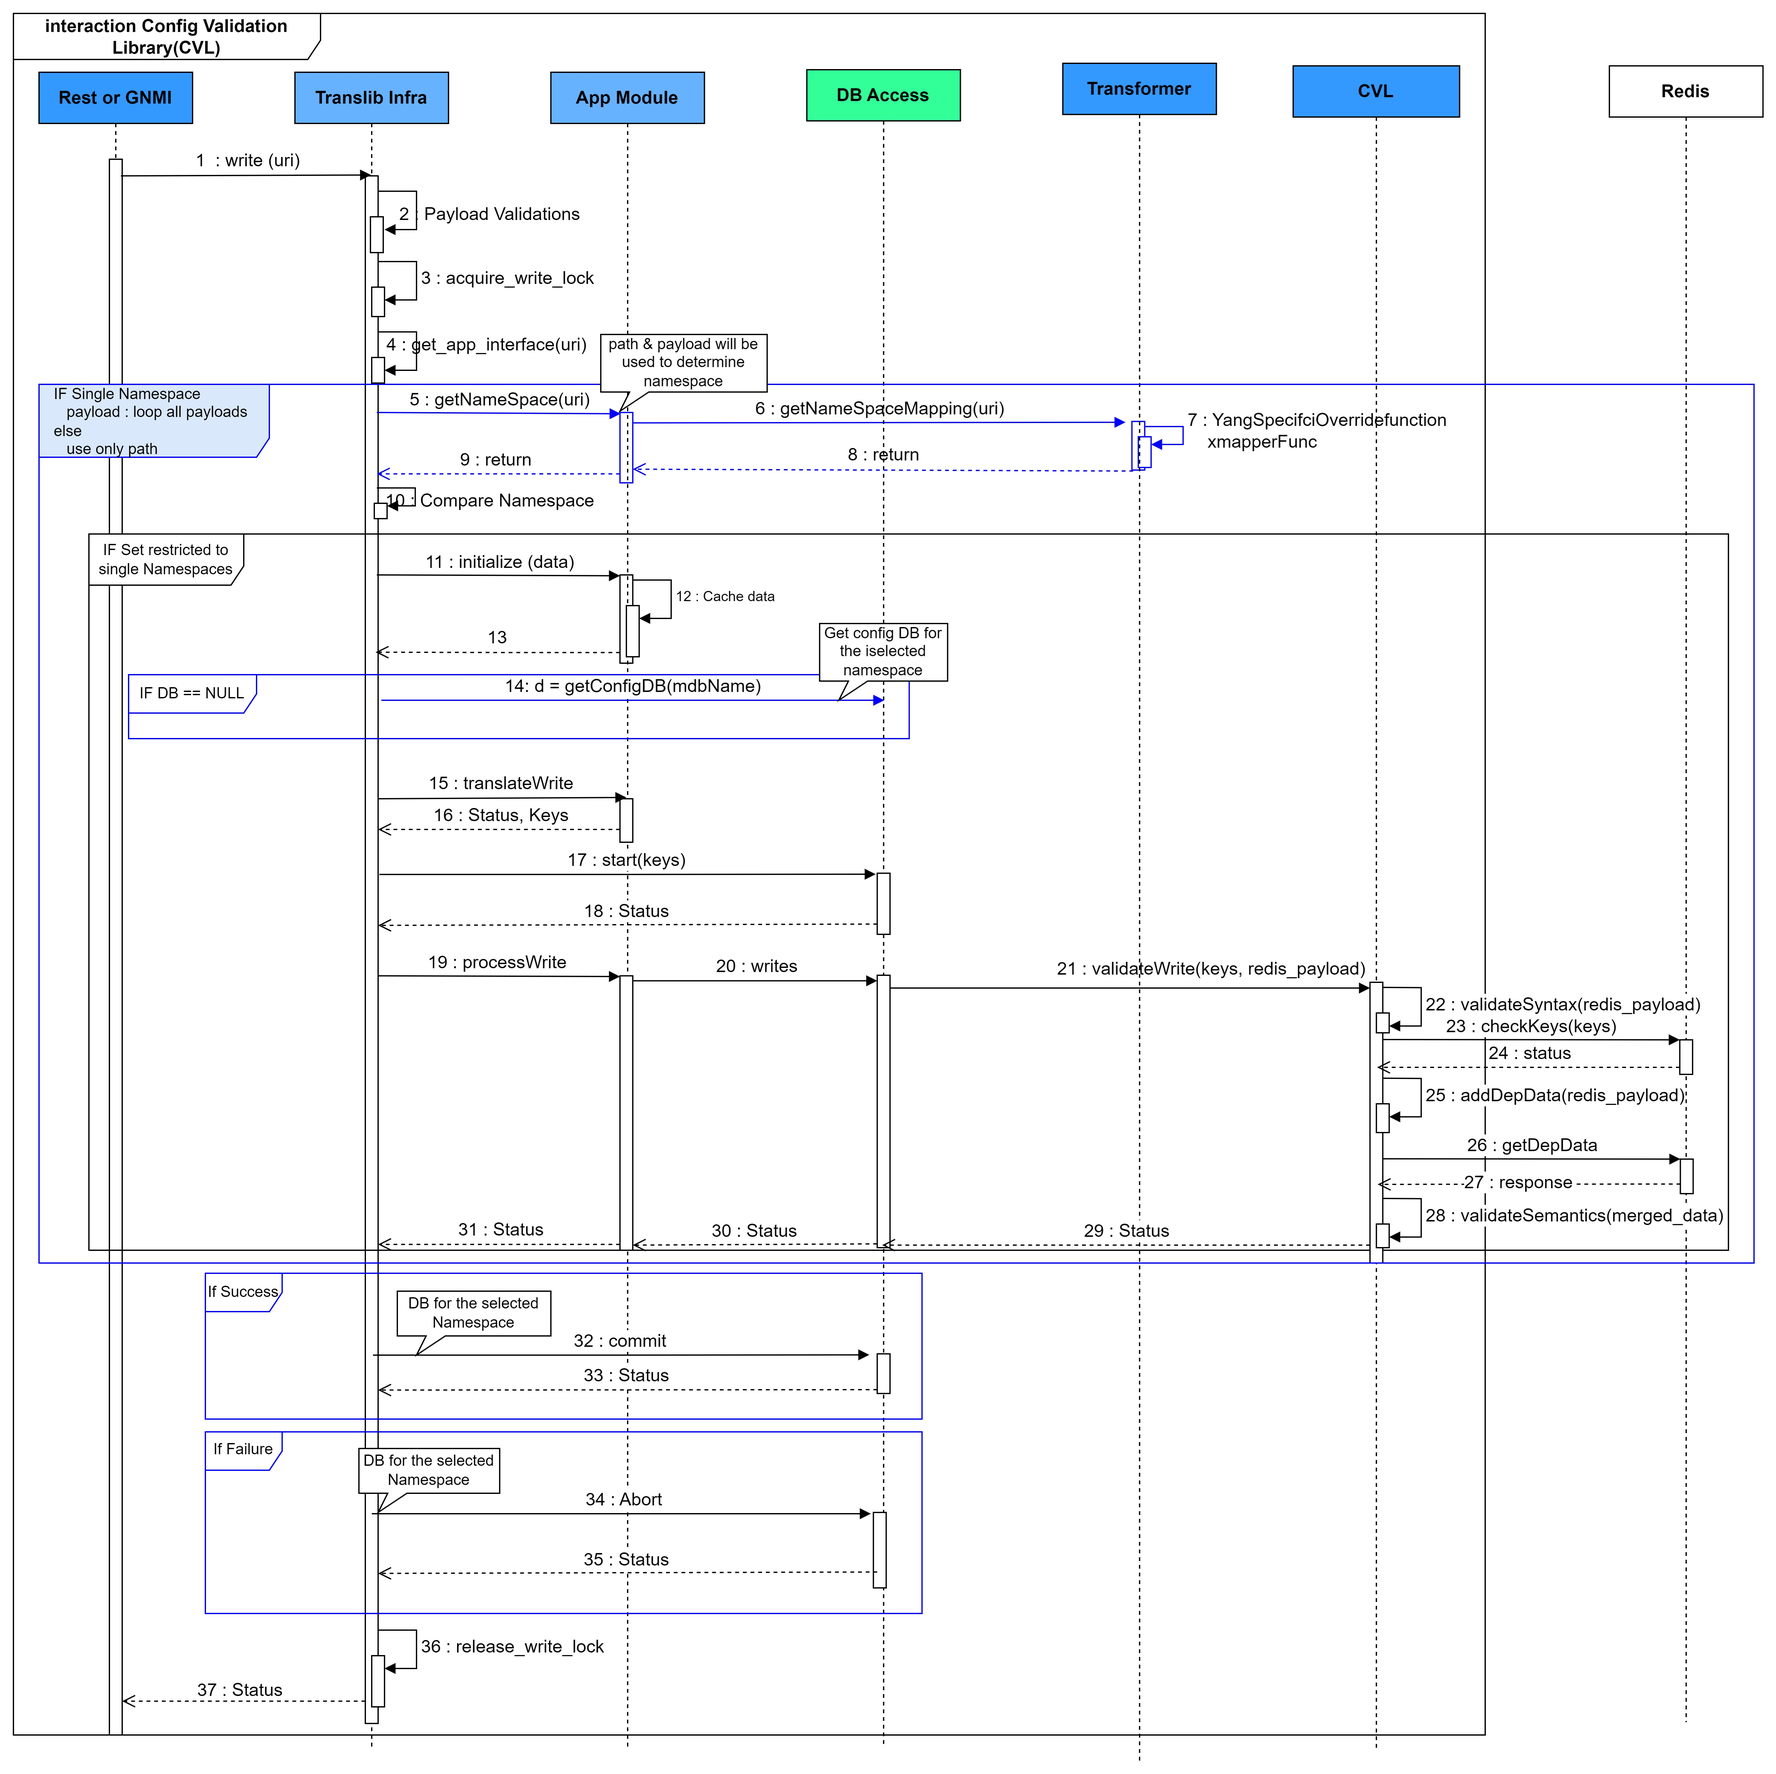
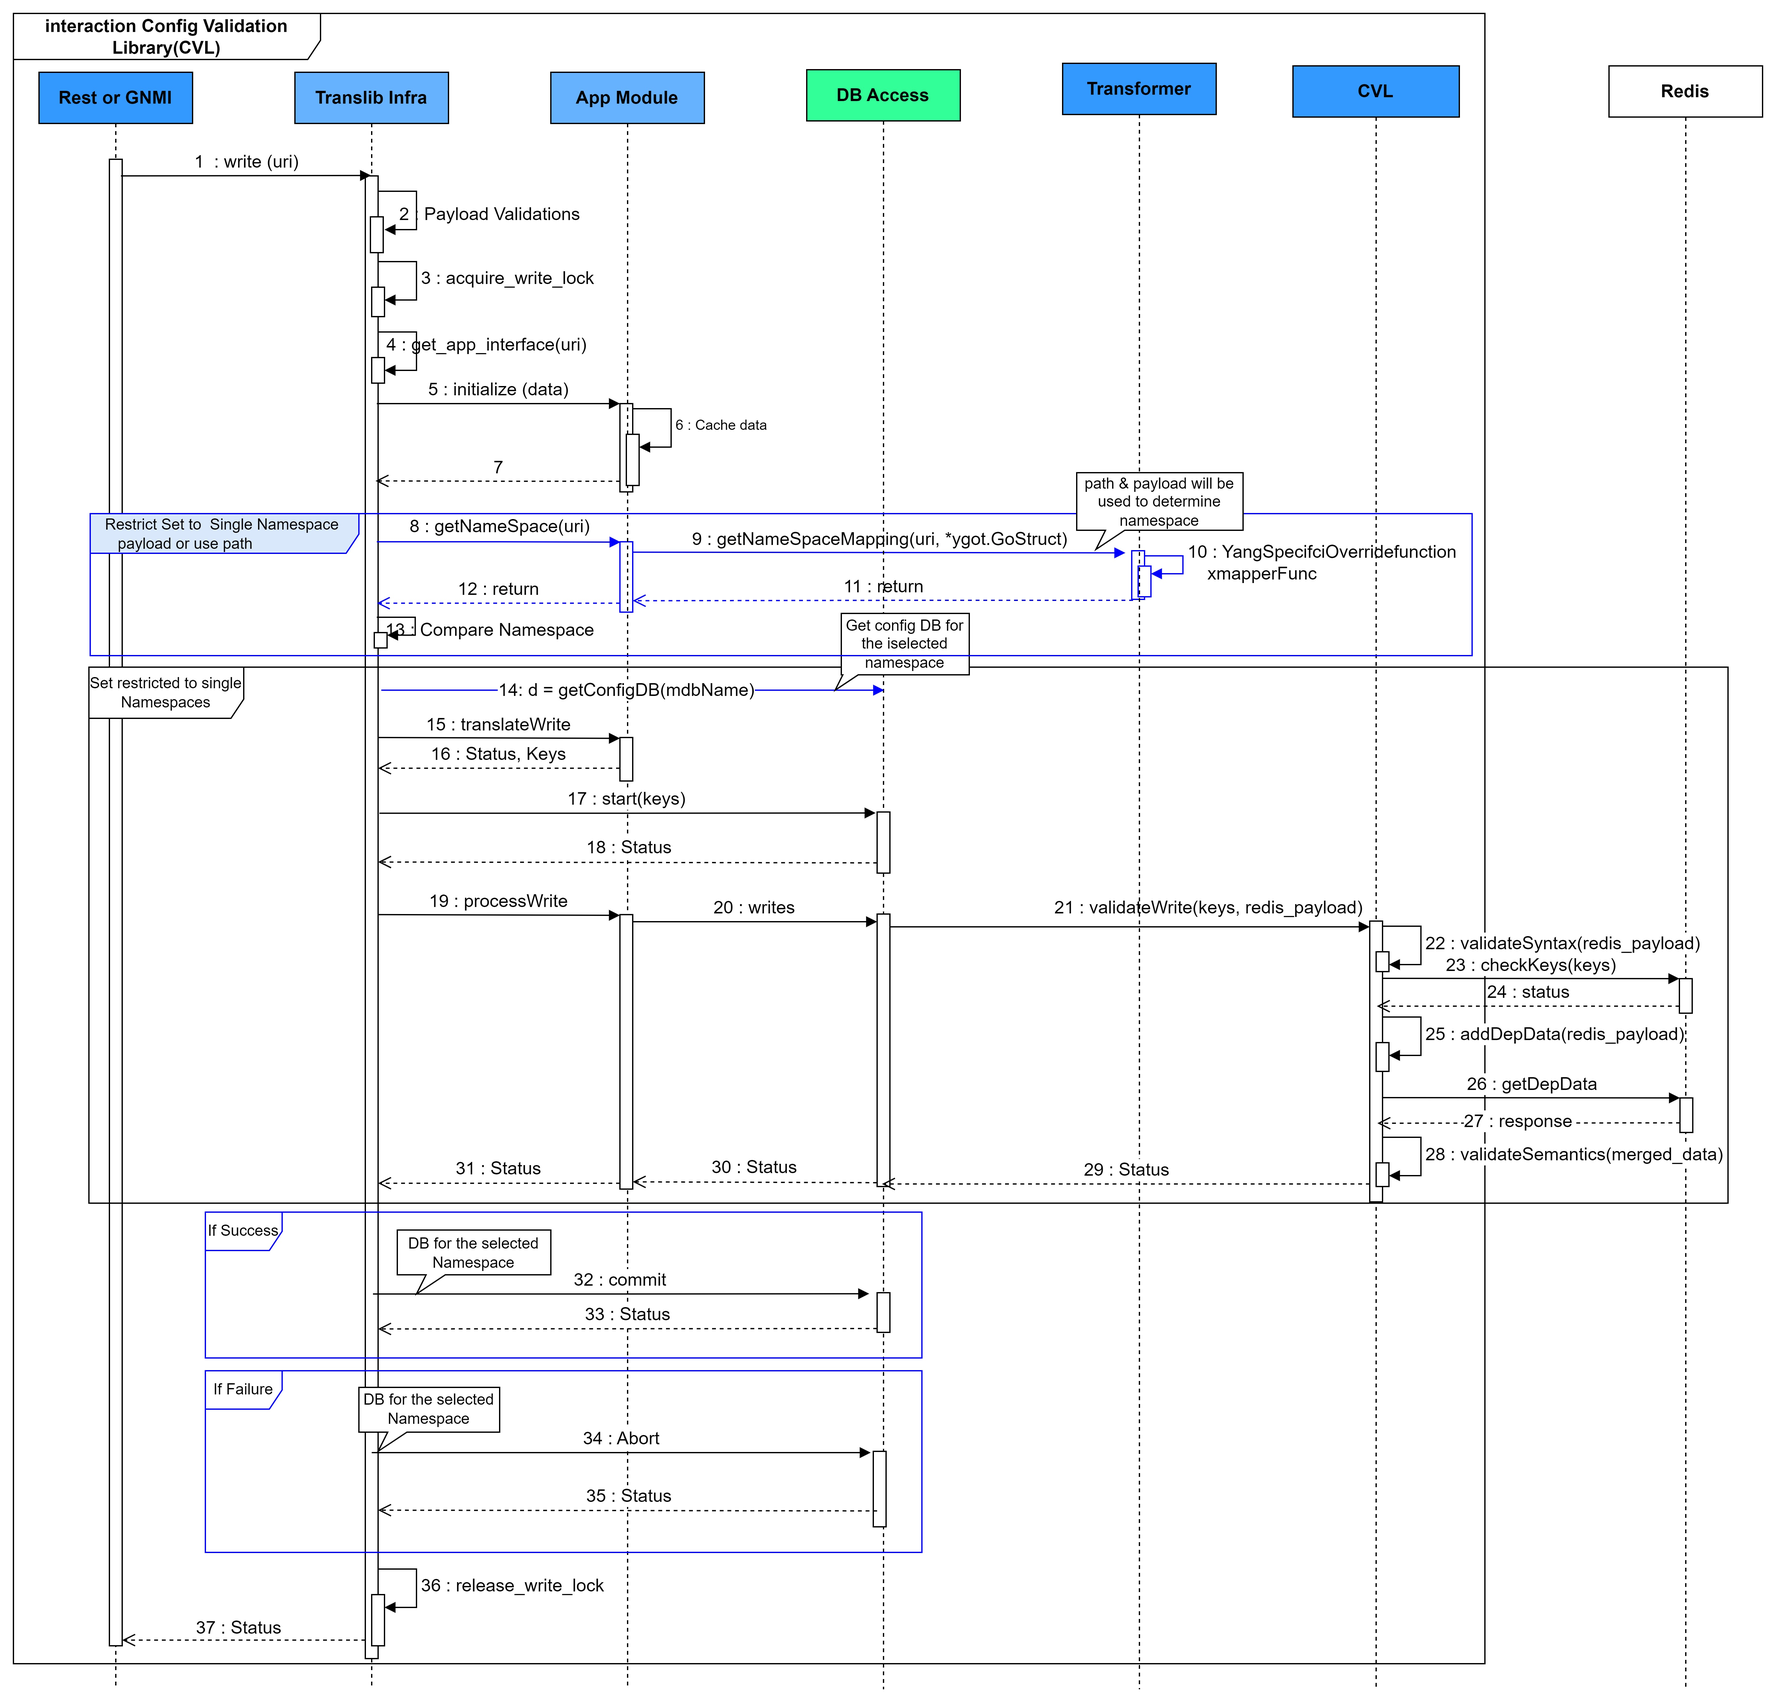
Addressed Review comments

diff --git a/doc/mgmt/Management Framework.md b/doc/mgmt/Management Framework.md
@@ -2000,8 +2000,8 @@ var oa_name_get_namespace_xfmr GetNamespaceFunc = func(inParams XfmrParams) ([]s
             log.Info("oa_name_get_namespace_xfmr: keys ", key)
             nameSpaceList = append(nameSpaceList, db.GetMDBNameFromEntity(key))
         }
-    } else if strings.Contains(inParams.uri, "/supervisory-channel") && oa.Amplifiers != nil {
-        for key := range oa.Amplifiers.SupervisoryChannels {
+    } else if strings.Contains(inParams.uri, "/supervisory-channel") && oa.SupervisoryChannels != nil {
+        for key := range oa.SupervisoryChannels.SupervisoryChannel {
             log.Info("oa_name_get_namespace_xfmr: keys ", key)
             nameSpaceList = append(nameSpaceList, db.GetMDBNameFromEntity(key))
         }
@@ -2043,7 +2043,7 @@ func XlateToDb(path string, opcode int, d *db.DB, yg *ygot.GoStruct, yt *interfa
 
 func GetAndXlateFromDB(xpath string, uri *ygot.GoStruct, dbs [db.MaxDB]*db.DB) ([]byte, error) {}
 
-func GetNameSpace(path string) ([]string, error) {}
+func GetNameSpace(path string, ygotRoot *ygot.GoStruct) ([]string, error) {}
 ```
 
 ###### 3.2.2.7.7 Overloaded Methods
@@ -2480,16 +2480,16 @@ mechanism for the app specific configuration.
 5. Translib infra populates the YGOT structure with the payload of the request and performs a syntactic validation
 6. Translib acquires the write lock (mutex lock) to avoid another write happening from the same process at the same time.
 7. Translib infra gets the App module corresponding to the incoming URI.
-8. Translib infra invoke App module getNamespace API (introduced in app interface) to get namespace associated with the uri/payload
-9. App module invokes transformer service getNamespaceMapping to retrieve namespace based on Yang model
-10. Transformer invokes Yang model based exception to retrieve the namespace associated with uri/payload
-11. Transformer returns namespace associated with the uri/payload
-12. Appmodule returns namespace
-13. Compare retured Namespace, Check that Set operation is restricted to single Namespace  
-14. Translib infra calls the initialize function of the App module with the YGOT structures, path and payload.
-15. App module caches the incoming data into the app structure.
-16. App module returns after initializing local data
-17. If DB is NULL, Get the Config DB for the selected Namespace 
+8. Translib infra calls the initialize function of the App module with the YGOT structures, path and payload.
+9. App module caches the incoming data into the app structure.
+10. App module returns after initializing local data
+11. Translib infra invoke App module getNamespace API (introduced in app interface) to get namespace associated with the uri/payload
+12. App module invokes transformer service getNamespaceMapping to retrieve namespace based on Yang model
+13. Transformer invokes Yang model based exception to retrieve the namespace associated with uri/payload
+14. Transformer returns namespace associated with the uri/payload
+15. Appmodule returns namespace
+16. Compare retured Namespace, Check that Set operation is restricted to single Namespace  
+17. Get the Config DB for the selected Namespace 
 18. App module calls Transformer function to translate the request from cached YGOT structures into Redis ABNF format. It also gets all the keys that will be affected as part of this request.
 19. App module returns the list of keys that it wants to keep a watch on along with the status.
 20. Translib infra invokes the start transaction request exposed by the DB access layer.
@@ -2527,14 +2527,14 @@ mechanism for the app specific configuration.
 3. Authentication of the incoming request is performed.
 4. Request handler calls the Translib exposed GET API with the uri of the request.
 5. Translib infra gets the App module corresponding to the incoming uri.
-6. Translib infra calls the getNamespace function of the App module with the uri path, to get all DB namespace associated with the uri path
-7. App module queries Transformer to get all namespace associated with the uri path
-8. Transformer shall use Yang specific "Transformer Spec" to get all namespace associated with uri path
-9. Transformer return namespace associated with the uri path
-10. App module return namespace retrived by the transformer layer
-11. Translib infra gets all the namespaces available in the platform, loops through each of the namespace associated with the uri path as recieved in earlier step
-12. Translib infra calls the initialize function of the App module with the YGOT structures and path. App module caches them.
-13. Status retuned from App module.
+6. Translib infra calls the initialize function of the App module with the YGOT structures and path. App module caches them.
+7. Status retuned from App module.
+8. Translib infra calls the getNamespace function of the App module with the uri path, to get all DB namespace associated with the uri path
+9. App module queries Transformer to get all namespace associated with the uri path
+10. Transformer shall use Yang specific "Transformer Spec" to get all namespace associated with uri path
+11. Transformer return namespace associated with the uri path
+12. App module return namespace retrived by the transformer layer
+13. Translib infra gets all the namespaces available in the platform, loops through each of the namespace associated with the uri path as recieved in earlier step
 14. App module queries Transformer to translate the path to the Redis keys that need to be queried.
 15. Status returned from App module.
 16. Translib infra calls the processGet function on the App module
@@ -2580,16 +2580,16 @@ Above is the sequence diagram explaining the CVL steps. Note that interaction be
 2. Translib infra populates the YGOT structure with the payload of the request and performs a syntactic validation.
 3. Translib acquires the write lock (mutex lock) to avoid another write happening from the same process at the same time.
 4. Translib infra gets the App module corresponding to the incoming uri.
-5. Translib infra invokes getNameSpace API of the App module
-6. App module invokes getNameSpaceMapping Transformer API
-7. Transformer invokes Yang model specific getNameSpace annotation function
-8. Transformer returns the namespace associated with the uri path
-9. App module returns namespace associated with the uri path
-10. Compare retured Namespace, Check that Set operation is restricted to single Namespace   
-11. Translib infra calls the initialize function of the App module with the YGOT structures, path and payload.
-12. App module caches the incoming data into the app structure.
-13. App module returns after initializing local data
-14. If DB is NULL, Get the Config DB for the selected Namespace 
+5. Translib infra calls the initialize function of the App module with the YGOT structures, path and payload.
+6. App module caches the incoming data into the app structure.
+7. App module returns after initializing local data
+8. Translib infra invokes getNameSpace API of the App module
+9. App module invokes getNameSpaceMapping Transformer API
+10. Transformer invokes Yang model specific getNameSpace annotation function
+11. Transformer returns the namespace associated with the uri path
+12. App module returns namespace associated with the uri path
+13. Compare retured Namespace, Check that Set operation is restricted to single Namespace   
+14. Get the Config DB for the selected Namespace 
 15. App module calls Transformer function to translate the request from cached YGOT structures into Redis ABNF format. It also gets all the keys that will be affected as part of this request.
 16. App module returns the list of keys that it wants to keep a watch on along with the status.
 17. Translib infra invokes the start transaction request exposed by the DB access layer.
@@ -2624,55 +2624,55 @@ Above is the sequence diagram explaining the CVL steps. Note that interaction be
 4. Request handler invokes one of the bulk APIs exposed by the Translib.
 5. Translib infra populates the YGOT structure with the payload of the request and performs a syntactic validation
 6. Translib acquires the write lock (mutex lock) to avoid another write happening from the same process at the same time.
-7. Loop through all DeleteRequest
-    1. Translib infra gets the App module corresponding to the incoming URI.
-    2. Translib infra invoke App module getNamespace API (introduced in app interface) to get namespace associated with the uri
-    3. App module invokes transformer service getNamespaceMapping to retrieve namespace based on Yang model
-    4. Transformer invokes Yang model based exception to retrieve the namespace associated with uri
-    5. Transformer returns namespace associated with the uri
-    6. Appmodule returns namespace
-    7. Compare retured Namespace, Check that operation is restricted to single Namespace  
-    8. Translib infra calls the initialize function of the App module with the YGOT structures, path and payload.
-    9. App module caches the incoming data into the app structure.
-    10. App module returns after initializing local data
-    11. If DB is NULL, Get the Config DB for the selected Namespace 
-    12. App module calls Transformer function to translate the request from cached YGOT structures into Redis ABNF format. It also gets all the keys that will be affected as part of this request.
-    13. App module returns the list of keys that it wants to keep a watch on along with the status.
-    14. Translib infra invokes the start transaction request exposed by the DB access layer.
-    15. DB access layer performs a WATCH of all the keys in the Redis DB. If any of these keys are modified externally then the EXEC call in step 33 will fail.
-    16. Status being returned from Redis.
-    17. Status being returned from DB access layer.
-    18. Translib then invokes the process Operation API on the App module.
-    19. App modules perform operation of the translated data to the DB access layer.
-    20. DB access layer validates the operation using CVL and then caches them.
-    21. Status being returned from DB access layer.
-    22. Status being returned from App module. 
-    23. If Set was a failure, Translib infra invokes the abort transaction on the DB access layer.
-    24. DB access layer first invokes UNWATCH request on the Redis DB indicating abort everything together.
-    25. Status retuned from Redis.
-    26. Status returned from DB access layer.
-8. Loop all Replace Request
-   Same as 7.1 to 7.26
-9. Loop all Update Request
-   Same as 7.1 to 7.26
-10. Loop all Create Request
-   Same as 7.1 to 7.26
-11. If Set was successful, Translib infra invokes the commit transaction on the DB access layer.
-12. DB access layer first invokes MULTI request on the Redis DB indicating there are multiple writes coming in, so commit everything together. All writes succeed or nothing succeeds.
-13. Status returned from Redis.
-14. Pipeline of all the cached writes are executed from the DB access layer.
-15. Status retuned from Redis.
-16. EXEC call is made to the Redis DB. Here if the call fails, it indicates that one of the keys that we watched has changed and none of the writes will go into the Redis DB.
-17. Status returned from Redis DB.
-18. Status returned from DB access layer.
-19. If Set was a failure, Translib infra invokes the abort transaction on the DB access layer.
-20. DB access layer first invokes UNWATCH request on the Redis DB indicating abort everything together.
-21. Status retuned from Redis.
-22. Status returned from DB access layer.      
-23. Write lock acquired in Step 6 is released.
-24. Status returned from the Translib infra.
-25. REST Status returned from the Request handler.
-26. REST response is sent by the REST gateway to the REST client.
+7. Check all operations is restricted to single namespace, Translib infra gets the App module corresponding to the incoming URI
+8. Translib infra calls the initialize function of the App module with the YGOT structures, path and payload.
+9. App module caches the incoming data into the app structure.
+10. App module returns after initializing local data
+11. Translib infra invoke App module getNamespace API (introduced in app interface) to get namespace associated with the uri
+12. App module invokes transformer service getNamespaceMapping to retrieve namespace based on Yang model
+13. Transformer invokes Yang model based exception to retrieve the namespace associated with uri
+14. Transformer returns namespace associated with the uri
+15. Appmodule returns namespace
+16. Compare retured Namespace, Check that operation is restricted to single Namespace 
+17. If Single Namespace, Get the Config DB for the selected Namespace
+18. Loop through all DeleteRequest  
+    1. App module calls Transformer function to translate the request from cached YGOT structures into Redis ABNF format. It also gets all the keys that will be affected as part of this request.
+    2. App module returns the list of keys that it wants to keep a watch on along with the status.
+    3. Translib infra invokes the start transaction request exposed by the DB access layer.
+    4. DB access layer performs a WATCH of all the keys in the Redis DB. If any of these keys are modified externally then the EXEC call in step 33 will fail.
+    5. Status being returned from Redis.
+    6. Status being returned from DB access layer.
+    7. Translib then invokes the process Operation API on the App module.
+    8. App modules perform operation of the translated data to the DB access layer.
+    9. DB access layer validates the operation using CVL and then caches them.
+    10. Status being returned from DB access layer.
+    11. Status being returned from App module. 
+    12. If Set was a failure, Translib infra invokes the abort transaction on the DB access layer.
+    13. DB access layer first invokes UNWATCH request on the Redis DB indicating abort everything together.
+    14. Status retuned from Redis.
+    15. Status returned from DB access layer.
+19. Loop all Replace Request
+   Same as 18.1 to 18.15
+20. Loop all Update Request
+   Same as 18.1 to 18.15
+21. Loop all Create Request
+   Same as 18.1 to 18.15
+22. If Set was successful, Translib infra invokes the commit transaction on the DB access layer.
+23. DB access layer first invokes MULTI request on the Redis DB indicating there are multiple writes coming in, so commit everything together. All writes succeed or nothing succeeds.
+24. Status returned from Redis.
+25. Pipeline of all the cached writes are executed from the DB access layer.
+26. Status retuned from Redis.
+27. EXEC call is made to the Redis DB. Here if the call fails, it indicates that one of the keys that we watched has changed and none of the writes will go into the Redis DB.
+28. Status returned from Redis DB.
+29. Status returned from DB access layer.
+30. If Set was a failure, Translib infra invokes the abort transaction on the DB access layer.
+31. DB access layer first invokes UNWATCH request on the Redis DB indicating abort everything together.
+32. Status retuned from Redis.
+33. Status returned from DB access layer.      
+34. Write lock acquired in Step 6 is released.
+35. Status returned from the Translib infra.
+36. REST Status returned from the Request handler.
+37. REST response is sent by the REST gateway to the REST client.
 
 ## 5 Developer Work flow
 Developer work flow differs for standard YANG (IETF/OpenConfig) vs proprietary YANG used for a feature. When a standards-based YANG model is chosen for a new feature, the associated Redis DB design should take the design of this model into account - the closer the mapping between these, then the less translation logic is required in the Management path. This simplifies the work flow as translation intelligence can be avoided as both Redis schema and NB YANG schema are aligned.
